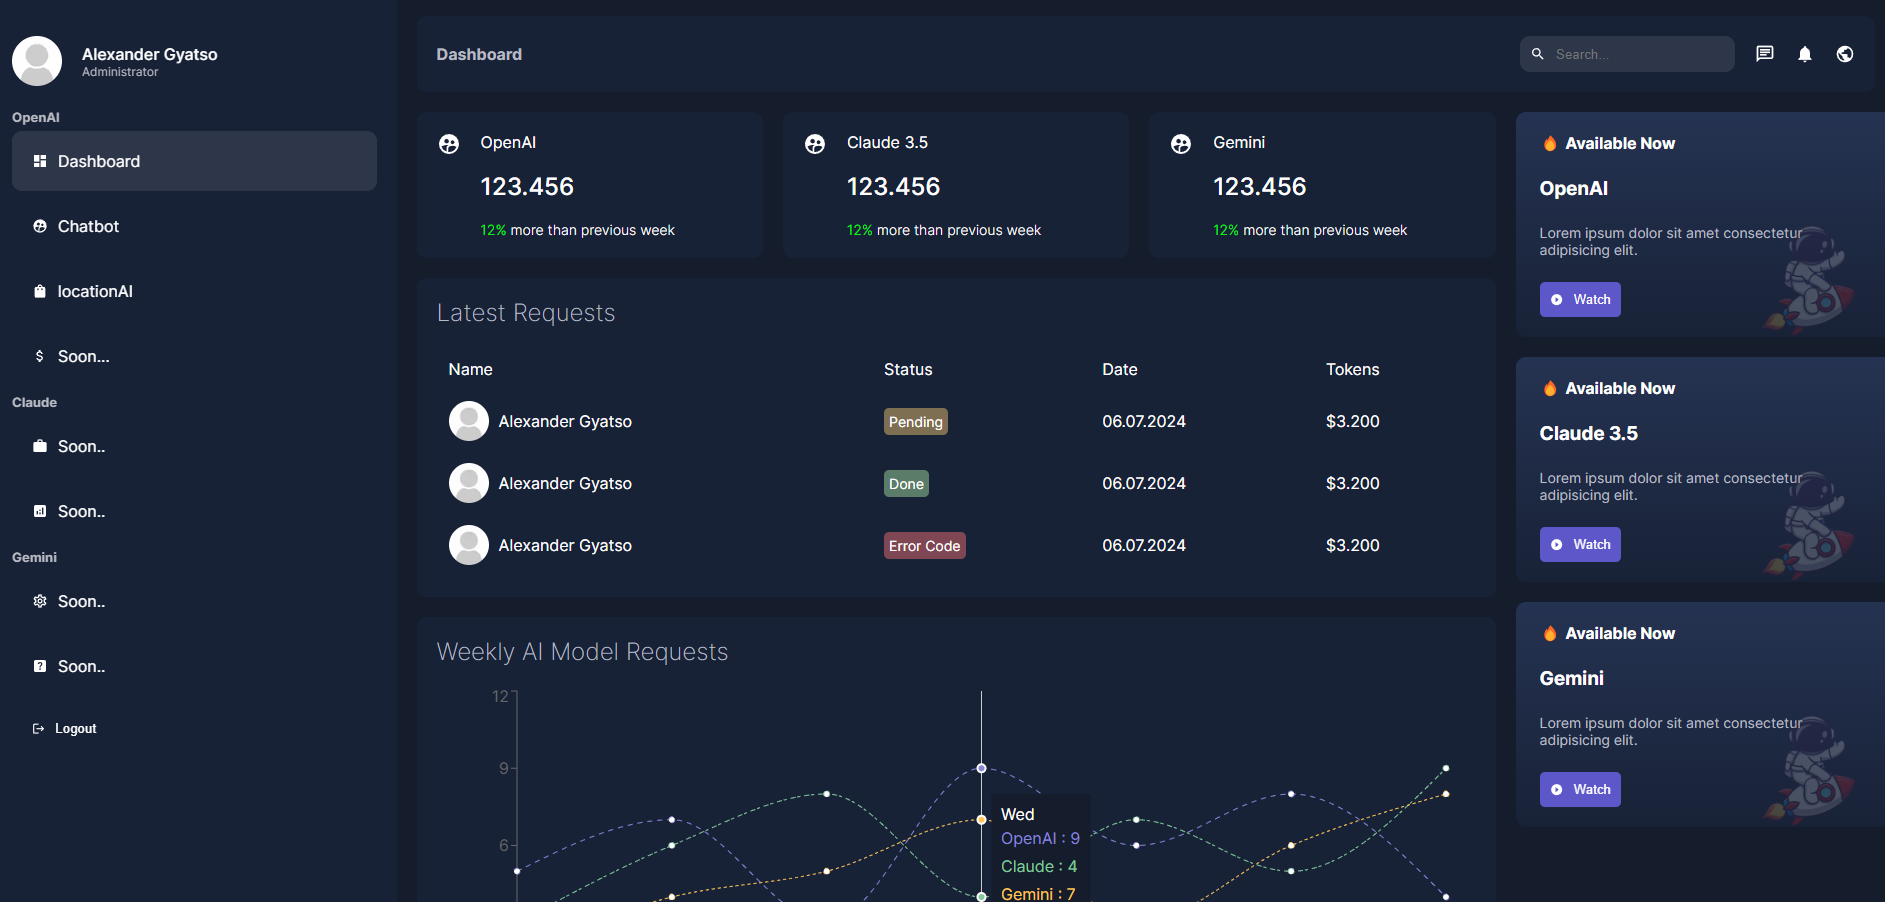
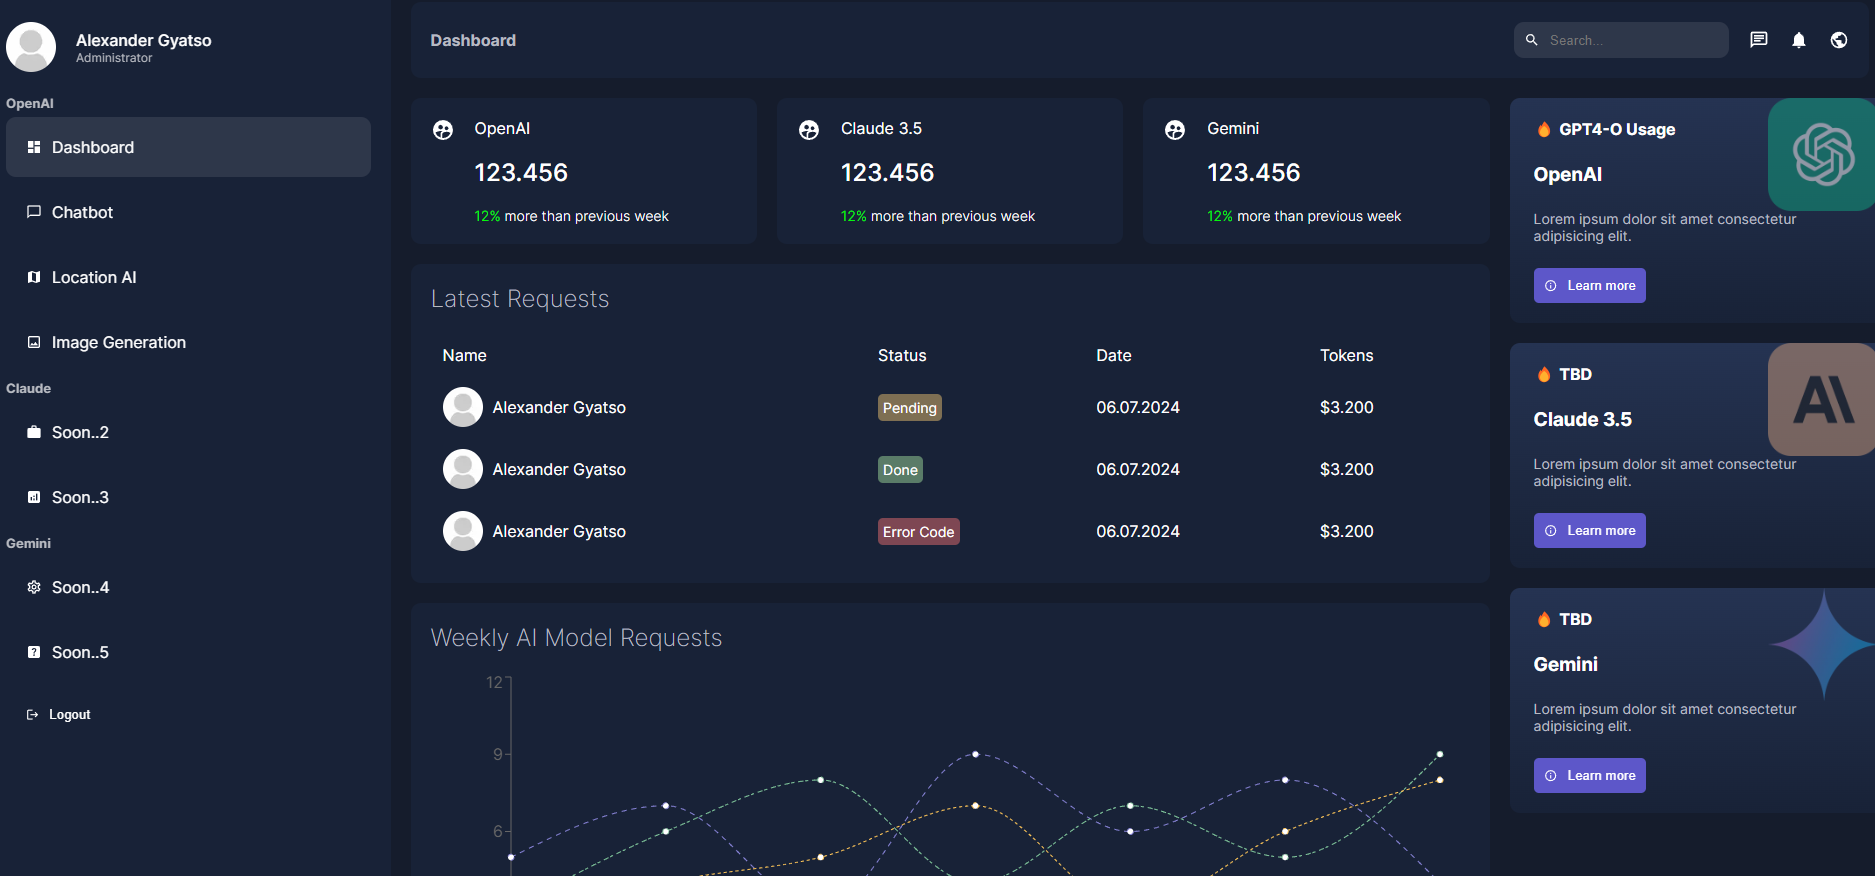
Fixed up dashboard

diff --git a/app/ui/dashboard/rightbar/rightbar.jsx b/app/ui/dashboard/rightbar/rightbar.jsx
@@ -1,6 +1,6 @@
 import Image from "next/image";
 import styles from "./rightbar.module.css";
-import { MdPlayCircleFilled, MdReadMore } from "react-icons/md";
+import { MdInfoOutline, MdReadMore } from "react-icons/md";
 
 const Rightbar = () => {
   return (
@@ -9,66 +9,75 @@ const Rightbar = () => {
         <div className={styles.bgContainer}>
           <Image
             className={styles.bg}
-            src="/astronaut.png"
+            src="/chatgpt-icon.png"
             fill
             sizes="(max-width: 768px) 100vw, (max-width: 1200px) 50vw, 33vw"
-            alt="Astronaut"
+            alt="OpenAI"
           />
         </div>
         <div className={styles.text}>
-          <span className={styles.notification}>🔥 Available Now</span>
+          <span className={styles.notification}>🔥 GPT4-O Usage</span>
           <h3 className={styles.title}>OpenAI</h3>
           <p className={styles.desc}>
             Lorem ipsum dolor sit amet consectetur adipisicing elit.
           </p>
-          <button className={styles.button}>
-            <MdPlayCircleFilled />
-            Watch
-          </button>
+          <a href="https://openai.com/" target="_blank">
+            <button className={styles.button}>
+              <MdInfoOutline />
+              Learn more
+            </button>
+          </a>
         </div>
       </div>
       <div className={styles.item}>
         <div className={styles.bgContainer}>
           <Image
             className={styles.bg}
-            src="/astronaut.png"
+            src="/claude-ai-icon.png"
             fill
             sizes="(max-width: 768px) 100vw, (max-width: 1200px) 50vw, 33vw"
-            alt="Astronaut"
+            alt="Anthropic - Claude AI"
           />
         </div>
         <div className={styles.text}>
-          <span className={styles.notification}>🔥 Available Now</span>
+          <span className={styles.notification}>🔥 TBD</span>
           <h3 className={styles.title}>Claude 3.5</h3>
           <p className={styles.desc}>
             Lorem ipsum dolor sit amet consectetur adipisicing elit.
           </p>
-          <button className={styles.button}>
-            <MdPlayCircleFilled />
-            Watch
-          </button>
+          <a href="https://www.anthropic.com/" target="_blank">
+            <button className={styles.button}>
+              <MdInfoOutline />
+              Learn more
+            </button>
+          </a>
         </div>
       </div>
       <div className={styles.item}>
         <div className={styles.bgContainer}>
           <Image
             className={styles.bg}
-            src="/astronaut.png"
+            src="/google-gemini-icon.png"
             fill
             sizes="(max-width: 768px) 100vw, (max-width: 1200px) 50vw, 33vw"
-            alt="Astronaut"
+            alt="Google Gemini"
           />
         </div>
         <div className={styles.text}>
-          <span className={styles.notification}>🔥 Available Now</span>
+          <span className={styles.notification}>🔥 TBD</span>
           <h3 className={styles.title}>Gemini</h3>
           <p className={styles.desc}>
             Lorem ipsum dolor sit amet consectetur adipisicing elit.
           </p>
-          <button className={styles.button}>
-            <MdPlayCircleFilled />
-            Watch
-          </button>
+          <a
+            href="https://deepmind.google/technologies/gemini/"
+            target="_blank"
+          >
+            <button className={styles.button}>
+              <MdInfoOutline />
+              Learn more
+            </button>
+          </a>
         </div>
       </div>
     </div>

diff --git a/app/ui/dashboard/rightbar/rightbar.module.css b/app/ui/dashboard/rightbar/rightbar.module.css
@@ -12,15 +12,15 @@
   
   .bgContainer {
     position: absolute;
-    right: 0;
-    bottom: 0;
+    right: -30px;
+    top: 0;
     width: 50%;
     height: 50%;
   }
   
   .bg {
     object-fit: contain;
-    opacity: 0.2;
+    opacity: 0.5;
   }
   
   .text {
